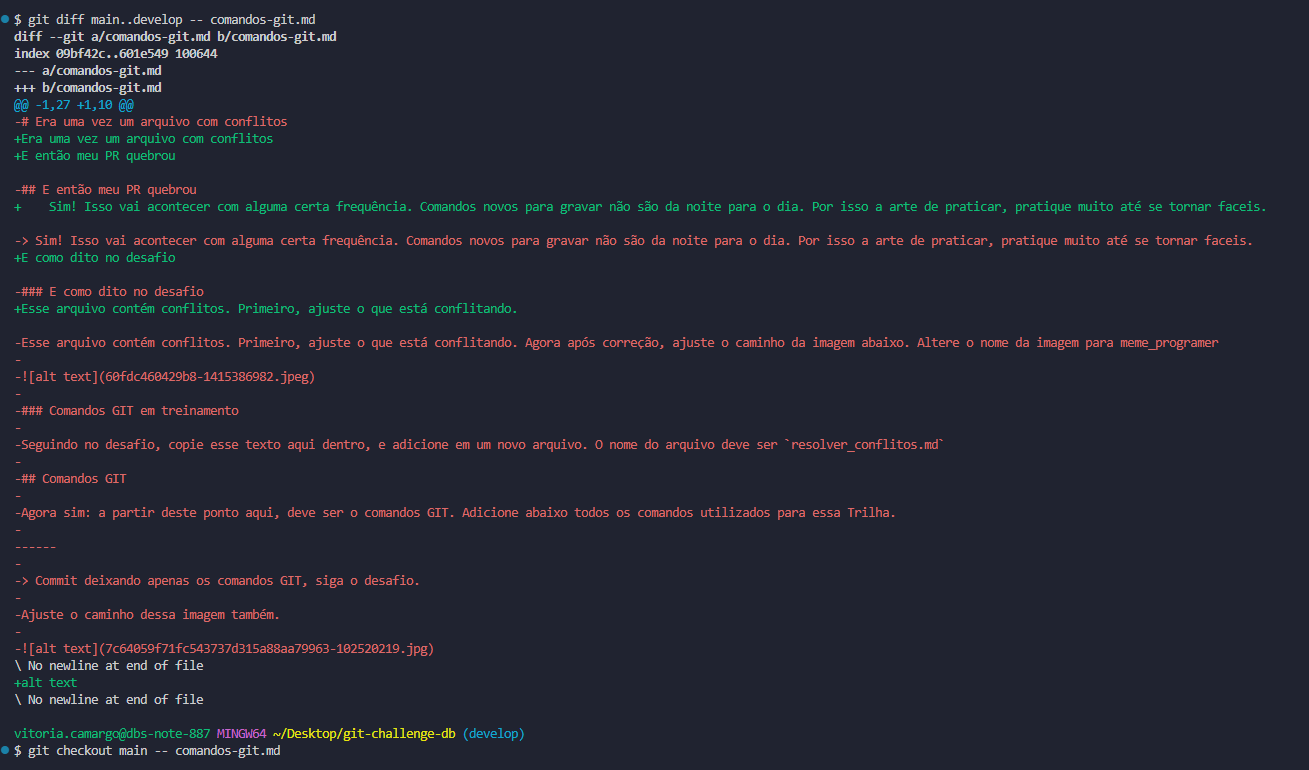
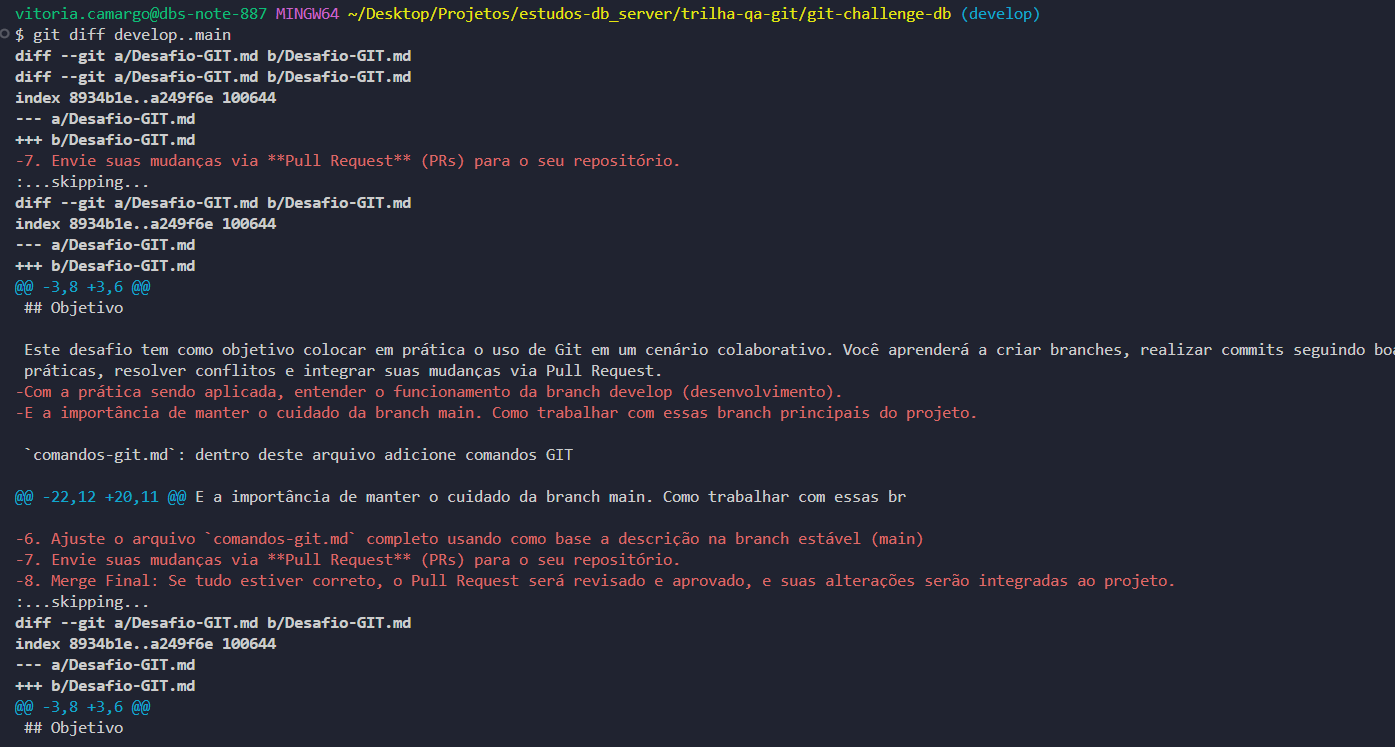
feat: atualiza a lista de comandos do git e adiciona mais prints

Changed region(s): [[0.0, 0.0, 1.0, 0.6774], [0.0, 0.7082, 0.8251, 0.9853]]

diff --git a/comandos-git.md b/comandos-git.md
@@ -2,6 +2,10 @@
 
 ```bash
 git clone <url do meu repositório do github> #Pra clonar o repositório localmente que eu já tinha clonado remotamente
+git remote add upstream <link do github que dei fork> #Pra apontar para o repositório original para buscar atualizações do projeto principal
+git fetch upstream #Pra buscar todos os dados do repositório upstream
+git log --oneline develop..upstream/main #Pra ver um resumo dos commits que estão no branch upstream/main e ainda não estão na branch develop
+git diff develop..main #Pra ver as diferenças entre a branch develop e o branch main
 git fetch origin #Pra sincronizar com a branch remota
 git merge origin/main #Pra mesclar as alterações da branch main remota na sua branch atual
 git pull origin main #Pra puxar as alterações da main e verificar se havia conflitos
@@ -22,5 +26,10 @@ git push origin HEAD #Pra subir as alterações na branch atual
 --
 ![](assets/8.png)
 --
-
+![](assets/9.png)
+--
+![](assets/10.png)
+--
+![](assets/11.png)
+--
 ![alt text](assets/meme_programer.jpeg)